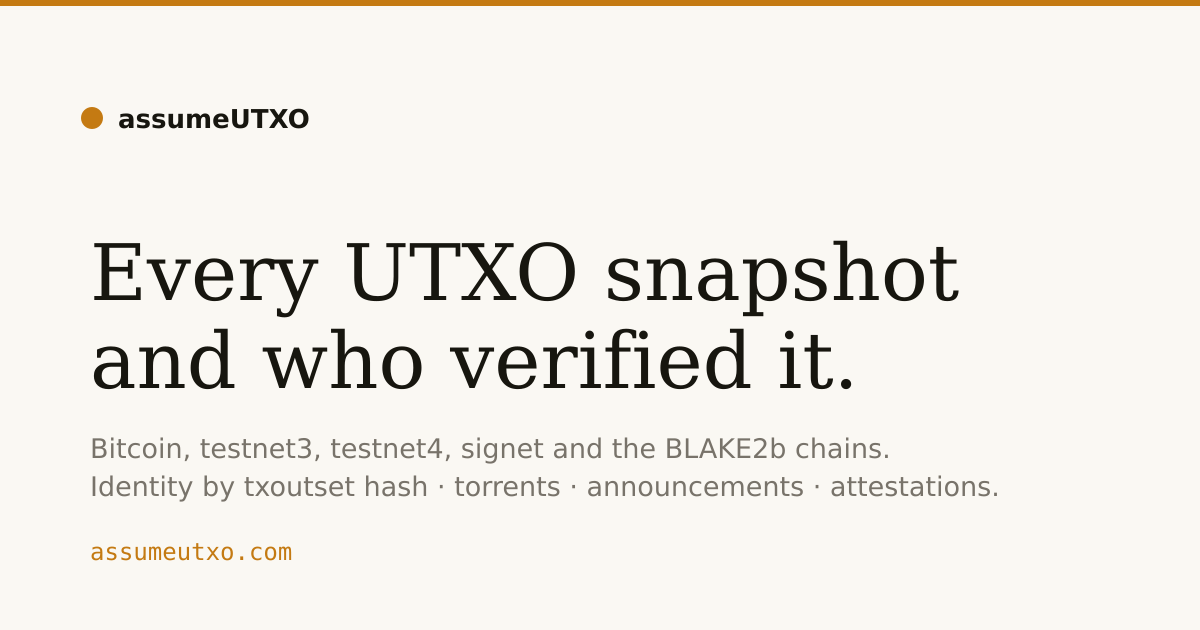
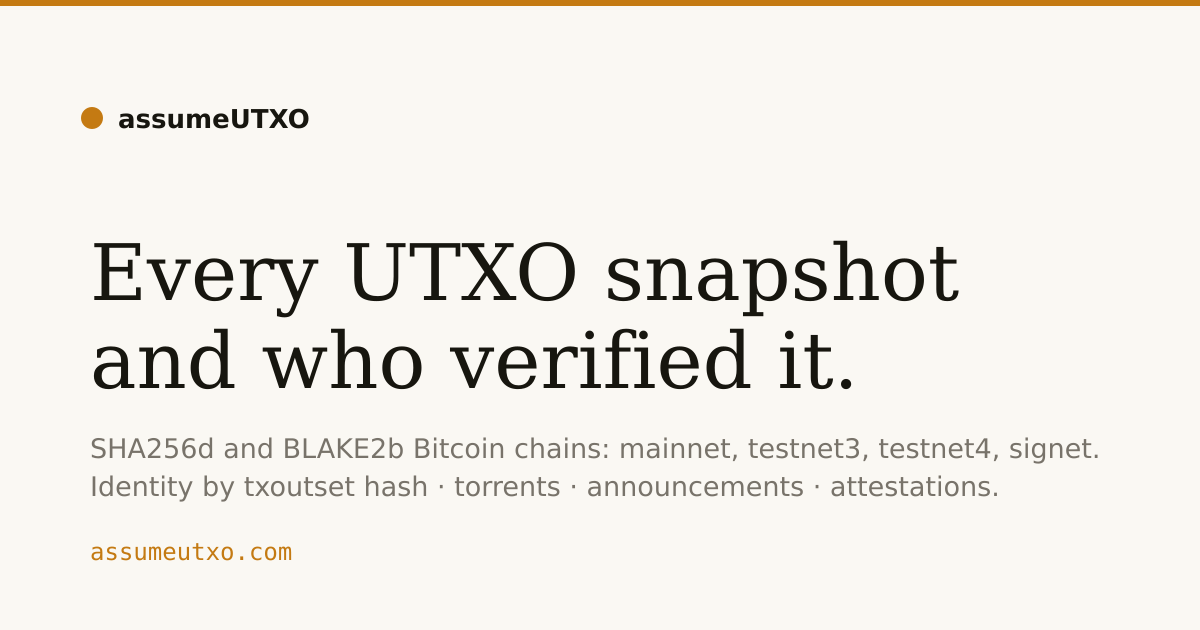
front page and card: neutral wording, the SHA256d and BLAKE2b Bitcoin chains

Changed region(s): [[0.0617, 0.6937, 0.925, 0.754]]

diff --git a/index.html b/index.html
@@ -1,19 +1,19 @@
 <!doctype html>
 <meta charset="utf-8"><title>assumeUTXO snapshots</title>
 <!-- ogp -->
-<meta name="description" content="Every UTXO set snapshot we know of, across Bitcoin and the BLAKE2b chains: Core's chain-parameter entries with their torrents, Knots' mainnet entry, and ours. A snapshot is named by its txoutset hash; a file is proven by its sha256 and its infohash; a torrent or a host is only where a copy was. Atte">
+<meta name="description" content="Every UTXO set snapshot we know of, across the SHA256d and BLAKE2b Bitcoin chains: mainnet, testnet3, testnet4 and signet, with their identity by txoutset hash, their torrents and announcements, and who has verified them. A snapshot is named by its txoutset hash; a file is proven by its sha256 and i">
 <link rel="canonical" href="https://assumeutxo.com/">
 <meta property="og:site_name" content="assumeUTXO">
 <meta property="og:type" content="website">
 <meta property="og:title" content="assumeUTXO snapshots">
-<meta property="og:description" content="Every UTXO set snapshot we know of, across Bitcoin and the BLAKE2b chains: Core's chain-parameter entries with their torrents, Knots' mainnet entry, and ours. A snapshot is named by its txoutset hash; a file is proven by its sha256 and its infohash; a torrent or a host is only where a copy was. Atte">
+<meta property="og:description" content="Every UTXO set snapshot we know of, across the SHA256d and BLAKE2b Bitcoin chains: mainnet, testnet3, testnet4 and signet, with their identity by txoutset hash, their torrents and announcements, and who has verified them. A snapshot is named by its txoutset hash; a file is proven by its sha256 and i">
 <meta property="og:url" content="https://assumeutxo.com/">
 <meta property="og:image" content="https://assumeutxo.com/og.png">
 <meta property="og:image:width" content="1200">
 <meta property="og:image:height" content="630">
 <meta name="twitter:card" content="summary_large_image">
 <meta name="twitter:title" content="assumeUTXO snapshots">
-<meta name="twitter:description" content="Every UTXO set snapshot we know of, across Bitcoin and the BLAKE2b chains: Core's chain-parameter entries with their torrents, Knots' mainnet entry, and ours. A snapshot is named by its txoutset hash; a file is proven by its sha256 and its infohash; a torrent or a host is only where a copy was. Atte">
+<meta name="twitter:description" content="Every UTXO set snapshot we know of, across the SHA256d and BLAKE2b Bitcoin chains: mainnet, testnet3, testnet4 and signet, with their identity by txoutset hash, their torrents and announcements, and who has verified them. A snapshot is named by its txoutset hash; a file is proven by its sha256 and i">
 <meta name="twitter:image" content="https://assumeutxo.com/og.png">
 <link rel="icon" href="https://assumeutxo.com/favicon.svg" type="image/svg+xml">
 <!-- /ogp -->
@@ -26,7 +26,7 @@
     "Index"
   ],
   "name": "assumeUTXO snapshots",
-  "description": "Every UTXO set snapshot we know of, across Bitcoin and the BLAKE2b chains: Core's chain-parameter entries with their torrents, Knots' mainnet entry, and ours. A snapshot is named by its txoutset hash; a file is proven by its sha256 and its infohash; a torrent or a host is only where a copy was. Attestations of who loaded what are to come.",
+  "description": "Every UTXO set snapshot we know of, across the SHA256d and BLAKE2b Bitcoin chains: mainnet, testnet3, testnet4 and signet, with their identity by txoutset hash, their torrents and announcements, and who has verified them. A snapshot is named by its txoutset hash; a file is proven by its sha256 and its infohash; a torrent or a host is only where a copy was.",
   "creator": {
     "@id": "me.html#me"
   },
